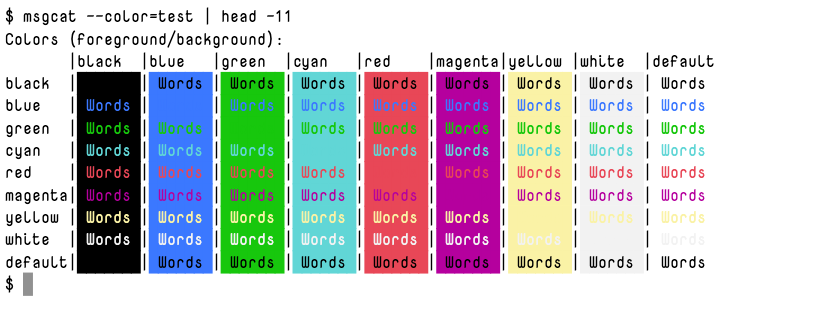
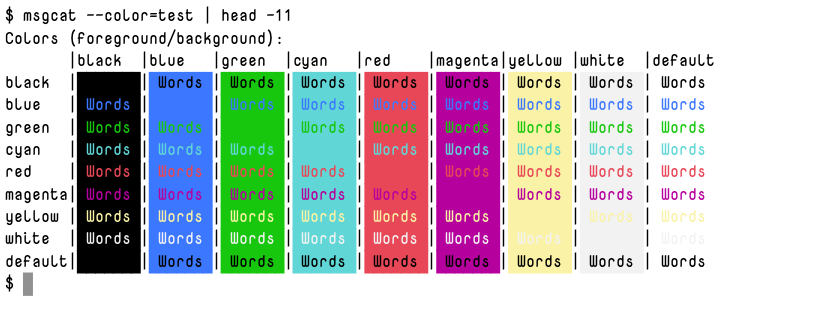
Terminal can be launched with a specified command
Added option :command to API and --command command line.

- screenshot :play/--play option is now optional
- Adapted sample play scripts to run /bin/bash as part
  of setup. On my system I run zsh with powerlevel10k and
  my fancy prompts were getting into README screenshots.
- On macOS and Linux :command defaults to $SHELL else
  /bin/bash
- Included support to default :command to powershell if on
  Windows. This gets us past launch, but there
  are still be many issues on Windows.
  Contributes to #29
- See README and docstrings for details on usage

Closes #3

diff --git a/README.md b/README.md
@@ -20,7 +20,7 @@ Some reasons to use **membrane.term**:
 
 Pre 1.0 release.
 APIs and behavior are subject to change.
-
+macOS and Linux are the current focus, Windows support is pre-alpha.
 ## Installation
 
 Membrane.term works on macOS and Linux operating systems.
@@ -60,6 +60,9 @@ A demo of the types of things you can do:
 ![run-term-demo](doc/images/run-term-demo.gif?raw=true)
 
 You can also optional specify:
+- [`-c, --command`](#command) Command to launch with, defaults to:
+  - macOS & Linux: `$SHELL` else `/bin/bash`
+  - Windows: `powershell`
 - `-w, --width` width of the terminal window in character columns (default: 90)
 - `-h, --height` height of the terminal window in character rows (default: 30)
 - [`--color-scheme`](#color-schemes) choose a different color scheme
@@ -75,6 +78,7 @@ Given play script `play-msgcat.sh`:
 <!-- copied from doc/examples/play-msgcat.sh -->
 ```bash
 # override prompt to something doc-friendly
+/bin/bash  # could alternatively use --command
 export PS1="$ "
 # print out some  colors
 clear
@@ -91,10 +95,11 @@ Membrane.term passes the script to the terminal character by character, then wri
 <!-- generated by script/regen-screenshots.sh -->
 ![play-msgcat-example](doc/images/screenshot-msgcat.png)
 
-You must specify:
-- `-p, --play` script to play
-
 You can also optionally specify:
+- [`-c, --command`](#command) Command to launch with, defaults to:
+  - macOS & Linux: `$SHELL` else `/bin/bash`
+  - Windows: `powershell`
+- `-p, --play` script to play in the terminal
 - `-w, --width` width of the terminal window in character columns (default: 90)
 - `-h, --height` height of the terminal window in character columns (default: 30)
 - `-o, --out` filename of the image file to generate (default: terminal.png)\
@@ -112,6 +117,7 @@ Given play script `play-deep-diff.sh`:
 <!-- copied from doc/examples/play-deep-diff.sh -->
 ```bash
 # our setup
+/bin/bash # could alternatively use --command
 export PS1="$ "
 cd
 mkdir -p target/term-screenshot
@@ -134,6 +140,40 @@ clj -M:membrane.term screenshot --play play-deep-diff.sh \
 Produces `deep-diff.jpg`:
 <!-- generated by script/regen-screenshots.sh -->
 ![play-deep-diff-example](doc/images/screenshot-deep-diff.png)
+
+
+## Command
+
+By default, `membrane.term` will attempt to launch with your OS shell.
+
+Use the `--command` option to launch with a different program.
+
+Let's suppose your favorite process monitor is [htop](https://htop.dev/) and that just want to run that:
+```bash
+clj -M:membrane.term run-term --command "htop --tree --delay 10"
+```
+
+Sometimes you are interested in taking a screenshot of only the output of a command:
+```bash
+clj -M:membrane.term screenshot --command "msgcat --color=test" --width 80 --height 21
+```
+![screenshot-msgcat-command-example](doc/images/screenshot-msgcat-command.png)
+
+Or, for a contrived example, let's pretend you want to play some text in `vi` and take a screenshot.
+Given file `an-ode-to-clojure.txt`:
+```
+iRoses are red
+Violets are blue
+Clojure is fun
+And so are you
+```
+
+Let's run:
+```bash
+clj -M:membrane.term screenshot --command vi --play an-ode-to-clojure.txt \
+  --width 40 --height 10
+```
+![screenshot-vi-command-example](doc/images/screenshot-vi-command.png)
 
 ## Color Schemes
 

diff --git a/CHANGELOG.md b/CHANGELOG.md
@@ -3,6 +3,7 @@ All notable changes to this project will be documented in this file. This change
 
 ## [Unreleased]
 ### Changed
+- Can now specify the launch command [#3](https://github.com/phronmophobic/membrane.term/issues/3)
 - Document public API [#28](https://github.com/phronmophobic/membrane.term/issues/28)
 - **Breaking** `screenshot` `:play` option was file, is now string (command line is unaffected, `--play` still references a file) [#26](https://github.com/phronmophobic/membrane.term/issues/28)
 
